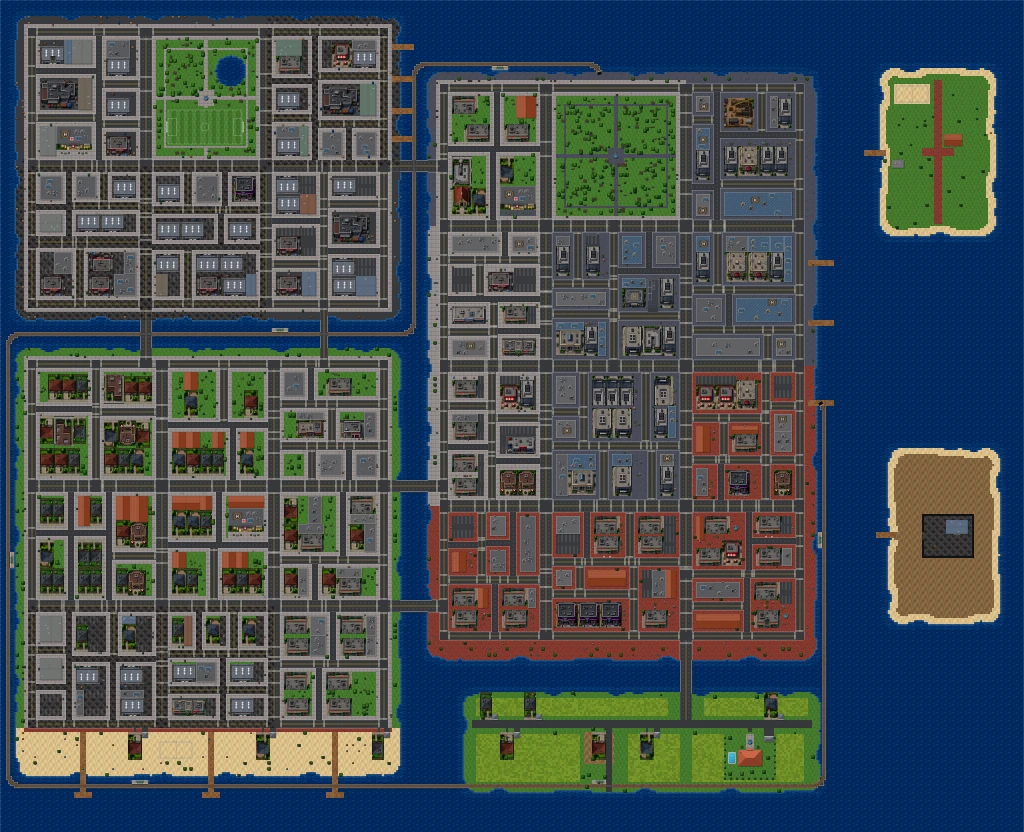
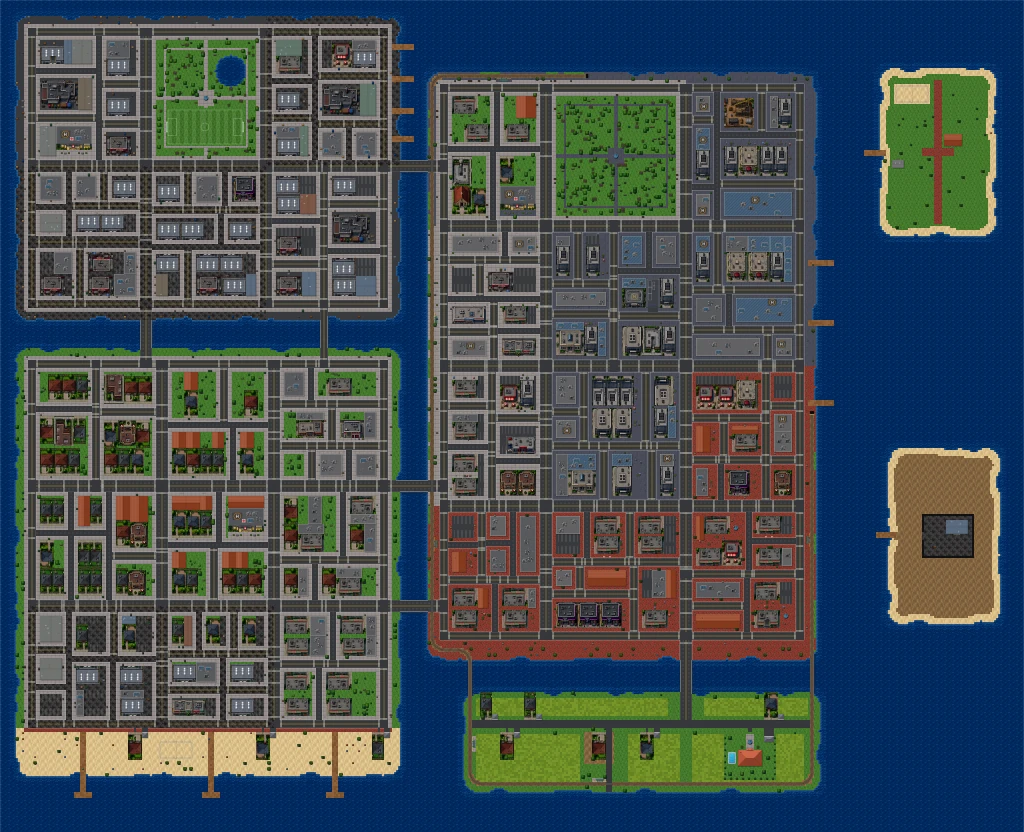
Railway on dry land: waterfront embankments and short bridges
The line used to run on a trestle down the middle of the waterways. It now
follows Downtown's waterfronts on a ballast embankment, goes under Downtown
in the subway, and crosses to Refuge Island on two short girder bridges.
Long water runs become bridges (capped by RAIL_MAX_BRIDGE_TILES), ragged
shore edges are filled in, props on the bed are cleared, and platforms go
on the side with room.

Stations, crossings, tutorial (v11), tests and the world map are updated.

Claude-Session: https://claude.ai/code/session_015TdwbASoLBxZr1VoEZGToX

diff --git a/shared/map.js b/shared/map.js
@@ -1040,10 +1040,11 @@ function volleyCourt(m, name, x, y, w, h) {
 }
 
 // ---- the railway ------------------------------------------------------------------------------
-// One big loop around the city: on a trestle over the water off the west coast and through the
-// channels (level crossings on the road bridges), under Downtown in a subway tunnel, and across
-// the open fields of Refuge Island (the long rural stretch). Trains follow `rail.pts` by arc
-// length; stations, crossings and the tunnel are positions along it.
+// One big loop on dry land: along Downtown's waterfronts on a ballast embankment (level
+// crossings where the road bridges come ashore), under Downtown in a subway tunnel, across the
+// channel to Refuge Island on two short bridges, and over its open fields (the long rural
+// stretch). Water is only ever crossed on a short bridge. Trains follow `rail.pts` by arc length;
+// stations, crossings and the tunnel are positions along it.
 export const RAIL_GAUGE = 52;         // px between the outer rails' ties (track bed width ~2 tiles)
 // Rolling stock (wire index = position here). Coaches: seat rows either side of the aisle, doors
 // in the middle; the mail car carries the strongbox at its back end.
@@ -1058,11 +1059,12 @@ export const MAIL_BOX = { ox: -58, oy: 0 };              // the strongbox (towar
 export const MAIL_POSTS = [[40, -18], [40, 18]];          // where the guards stand
 export const CROSSING_ARM = 66;                          // gate arms this far either side of the track centre
 const RAIL_ROUTE = [ // [tx, ty, flag] corners (track centre between tile tx-1 and tx); flag 'sub' = may run underground
-  [4, 393], [4, 167], [207, 167], [207, 32], [300, 32, 'sub'], [300, 200, 'sub'], [412, 200, 'sub'], [412, 393],
+  [216, 38], [300, 38, 'sub'], [300, 200, 'sub'], [406, 200, 'sub'], [406, 392], [235, 392], [235, 325], [216, 325],
 ];
 const RAIL_STATIONS = [ // [name, tx, ty] nearest point on the line becomes the stop
-  ['Westside', 4, 280], ['Channel Street', 140, 167], ['Northshore', 250, 32], ['Midtown Underground', 300, 120], ['Eastport', 412, 270], ['Refuge Halt', 300, 393], ['Sunset Pier', 70, 393],
+  ['Northshore', 252, 38], ['Midtown Underground', 300, 120], ['Eastport', 406, 270], ['Refuge Halt', 300, 392], ['Refuge West', 235, 372], ['Southbank', 216, 272], ['Harbor Street', 216, 160],
 ];
+export const RAIL_MAX_BRIDGE_TILES = 22; // the longest stretch of open water the line may cross (on a bridge)
 function buildRailway(m) {
   // a farm lane from Refuge Island's main road down to the halt (its level crossing is the rural one)
   for (let lx = 296; lx <= 312; lx++) {
@@ -1095,11 +1097,22 @@ function buildRailway(m) {
   // which points are underground: on a 'sub' stretch and under land
   const wet = (x, y) => { const t = m.tileAtPx(x, y); return t === T.WATER || t === T.DEEP; };
   for (const p of pts) p.under = !!p.sub && !wet(p.x, p.y) && m.tileAtPx(p.x, p.y) !== T.BRIDGE;
-  // lay the track bed: a trestle (bridge deck) over water, ballast (dirt) on land; road crossings stay road
+  // Where the line meets open water: a long run of water under the centre line is a channel
+  // crossing (a bridge deck); anything else - the ragged edge of a waterfront - is filled in as a
+  // ballast embankment, so the track always runs on land beside the water, never out in it.
+  const wetT = (t) => t === T.WATER || t === T.DEEP;
+  let run = [];
+  const closeRun = () => { const len = run.length ? run[run.length - 1].s - run[0].s : 0; for (const q of run) q.bridge = len > 5 * TILE; run = []; };
+  for (const p of pts) { if (!p.under && wetT(m.tileAtPx(p.x, p.y))) run.push(p); else closeRun(); }
+  closeRun();
+  // a bridge deck reaches a little past the water's edge at both ends
+  for (let i = 0; i < pts.length; i++) if (pts[i].bridge) for (let k = -6; k <= 6; k++) { const q = pts[(i + k + pts.length) % pts.length]; if (!q.under) q.deck = true; }
+  // lay the track bed: ballast (dirt) on land and embankment, a deck on the bridges; road crossings stay road
   const crossings = [];
+  const OFFS = [[-24, -24], [24, -24], [-24, 24], [24, 24], [0, 0], [-24, 0], [24, 0], [0, -24], [0, 24]];
   for (const p of pts) {
     if (p.under) continue;
-    for (const [dx, dy] of [[-24, -24], [24, -24], [-24, 24], [24, 24], [0, 0]]) {
+    for (const [dx, dy] of OFFS) {
       const tx = Math.floor((p.x + dx) / TILE), ty = Math.floor((p.y + dy) / TILE);
       const t = m.tileAt(tx, ty);
       if (t === T.ROAD || (t === T.BRIDGE && m.roadAxis[ty * MAP_W + tx])) {
@@ -1108,10 +1121,14 @@ function buildRailway(m) {
         else { last.s1 = p.s; }
         continue;
       }
-      if (t === T.WATER || t === T.DEEP) m.set(tx, ty, T.BRIDGE);
+      if (wetT(t)) m.set(tx, ty, p.deck ? T.BRIDGE : T.DIRT);
       else if (t !== T.BRIDGE && t !== T.DOCK && t !== T.BUILDING && t !== T.WALL) m.set(tx, ty, T.DIRT);
     }
+    // the embankment gets a shoulder a tile wider each side, so it reads as solid ground
+    if (!p.deck) for (const [dx, dy] of [[-40, 0], [40, 0], [0, -40], [0, 40]]) { const tx = Math.floor((p.x + dx) / TILE), ty = Math.floor((p.y + dy) / TILE); if (wetT(m.tileAt(tx, ty))) m.set(tx, ty, T.GRASS); }
   }
+  // nothing planted on the line: lamps, trees, benches and the like in the way are cleared
+  clearPropsOnRail(m, pts);
   for (const c of crossings) {
     const mid = (c.s0 + c.s1) / 2; const q = railAt({ pts, len: total }, mid); c.s = mid; c.x = q.x; c.y = q.y; c.a = q.a;
     // how wide the road is where it crosses (measured along the track)
@@ -1119,6 +1136,11 @@ function buildRailway(m) {
     let hw = 16;
     for (const sg of [-1, 1]) { let d = 0; while (d < 200 && onRoad(q.x + Math.cos(q.a) * sg * (d + 8), q.y + Math.sin(q.a) * sg * (d + 8))) d += 8; hw = Math.max(hw, d + 4); }
     c.hw = hw;
+  }
+  // the line only clipping the dead end of a lane isn't a crossing: that bit of road becomes ballast
+  for (const c of crossings.filter((q) => q.hw < 28)) {
+    for (const p of pts) if (p.s > c.s0 - 48 && p.s < c.s1 + 48) for (const [dx, dy] of OFFS) { const tx = Math.floor((p.x + dx) / TILE), ty = Math.floor((p.y + dy) / TILE); if (m.tileAt(tx, ty) === T.ROAD) { m.set(tx, ty, T.DIRT); m.roadAxis[ty * MAP_W + tx] = 0; } }
+    crossings.splice(crossings.indexOf(c), 1);
   }
   // stations: platform beside the track, joined to the nearest land (a short pier / paved apron)
   const stations = [];
@@ -1129,7 +1151,10 @@ function buildRailway(m) {
     // platform on the side with land nearer
     const nx = -Math.sin(q.a), ny = Math.cos(q.a);
     const landDist = (sx) => { for (let d = 40; d < 900; d += 16) { const t = m.tileAtPx(q.x + nx * sx * d, q.y + ny * sx * d); if (t !== T.WATER && t !== T.DEEP && t !== T.BRIDGE) return d; } return 9999; };
-    const side = best.under ? 1 : landDist(1) <= landDist(-1) ? 1 : -1;
+    // the platform goes on whichever side has room (no road or buildings in its footprint);
+    // on a waterfront that's often a pier out over the water
+    const bad = (sd) => { let n = 0; for (let along = -112; along <= 112; along += 16) for (let off = 40; off <= 88; off += 16) { const t = m.tileAtPx(q.x + Math.cos(q.a) * along + nx * sd * off, q.y + Math.sin(q.a) * along + ny * sd * off); if (t === T.ROAD || t === T.BUILDING || t === T.WALL || t === T.BRIDGE) n++; } return n; };
+    const side = best.under ? 1 : bad(1) !== bad(-1) ? (bad(1) < bad(-1) ? 1 : -1) : landDist(1) <= landDist(-1) ? 1 : -1;
     const st = { name: `${name} Station`, s: best.s, x: q.x, y: q.y, a: q.a, side, under: !!best.under };
     if (!best.under) {
       // platform: 7 tiles along the track, 2 deep, then a walkway to land
@@ -1140,7 +1165,7 @@ function buildRailway(m) {
         if (t === T.WATER || t === T.DEEP) m.set(Math.floor(x / TILE), Math.floor(y / TILE), T.DOCK);
         else if (t !== T.BUILDING && t !== T.WALL && t !== T.ROAD && t !== T.BRIDGE) m.set(Math.floor(x / TILE), Math.floor(y / TILE), T.PLAZA);
       }
-      const far = Math.min(900, landDist(side));
+      const far = landDist(side) < 400 ? landDist(side) : 0; // a pier platform is reached across the tracks
       for (let d = 88; d <= far + 16; d += 16) for (const w of [-16, 0, 16]) {
         const x = q.x + nx * side * d + ax * w, y = q.y + ny * side * d + ay * w;
         const t = m.tileAtPx(x, y);
@@ -1166,6 +1191,25 @@ function buildRailway(m) {
   const east = stations.find((q) => q.name.startsWith('Eastport')), halt = stations.find((q) => q.name.startsWith('Refuge'));
   const ruralPts = pts.filter((p) => p.s > east.s && p.s < halt.s && m.dist[Math.floor(p.y / TILE) * MAP_W + Math.floor(p.x / TILE)] === 9);
   m.rail = { pts, len: total, stations, crossings, rural: ruralPts.length ? { s0: ruralPts[0].s + 200, s1: ruralPts[ruralPts.length - 1].s - 100 } : null };
+}
+
+// Clear street furniture standing on the track bed (and re-index what's left: props are
+// referenced by index on the wire, and both ends build the map the same way).
+function clearPropsOnRail(m, pts) {
+  const grid = new Set();
+  for (const p of pts) if (!p.under) for (let dy = -1; dy <= 1; dy++) for (let dx = -1; dx <= 1; dx++) grid.add((Math.floor(p.y / TILE) + dy) * MAP_W + Math.floor(p.x / TILE) + dx);
+  const near = (x, y) => { if (!grid.has(Math.floor(y / TILE) * MAP_W + Math.floor(x / TILE))) return false; for (const p of pts) if (!p.under && Math.abs(p.x - x) < 46 && Math.abs(p.y - y) < 46 && Math.hypot(p.x - x, p.y - y) < 46) return true; return false; };
+  const keep = [], remap = new Map(), gone = new Set();
+  m.props.forEach((pr, i) => { if (near(pr.x, pr.y)) { gone.add(pr); return; } remap.set(i, keep.length); keep.push(pr); });
+  if (!gone.size) return;
+  m.props = keep;
+  m.lamps = m.lamps.filter((l) => !gone.has(l));
+  m.propSolid = new Map();
+  for (const [k, arr] of m.solidProps) {
+    const kept = arr.filter((e) => e.pi < 0 ? !near(e.x, e.y) : remap.has(e.pi));
+    for (const e of kept) if (e.pi >= 0) { e.pi = remap.get(e.pi); m.propSolid.set(e.pi, e); }
+    if (kept.length) m.solidProps.set(k, kept); else m.solidProps.delete(k);
+  }
 }
 
 // Position + heading at arc length s along the loop (wraps).

diff --git a/shared/tutorial.js b/shared/tutorial.js
@@ -28,7 +28,7 @@ import {
 } from './rules.js';
 
 // Bump when the tour changes enough that returning players should be offered it again.
-export const TUTORIAL_VERSION = 10;
+export const TUTORIAL_VERSION = 11;
 
 const price = (shop, id) => (SHOPS[shop].buy.find((o) => o.id === id) || {}).price;
 const min = (ms) => Math.round(ms / 60000);
@@ -69,7 +69,7 @@ export const STEPS = [
     text: `The Syndicate's island fortress. Guards shoot outsiders on sight, and the compound gate only opens for gang members - home of the {{smuggler}}.` },
 
   { ch: 'city', title: 'The railway', at: { pois: 'station' },
-    text: `Two trains run one big loop round the city at up to ${kmh(TRAIN_SPEED)} km/h - over the trestle off the west coast, through the channels, under Downtown in the subway and across the fields of ${isle('F')} - stopping ${TRAIN_DWELL_S} seconds at every {{station}} (check the timetable on the platform). Stand by a door while a train is in and press [[action]] to board; at Midtown Underground take the stairs down. Walk through the cars, sit back and watch the city go by, then [[vehicle]] gets you off at a station - or jump off a moving train and tumble. In the tunnel the doors stay shut. Running alongside a slow train, or driving level with it, you can hop on too.` },
+    text: `Two trains run one big loop at up to ${kmh(TRAIN_SPEED)} km/h - along ${isle('D')}'s waterfronts, under its streets in the subway and over two short bridges to the fields of ${isle('F')} - stopping ${TRAIN_DWELL_S} seconds at every {{station}} (check the timetable on the platform). Stand by a door while a train is in and press [[action]] to board; at Midtown Underground take the stairs down. Walk through the cars, sit back and watch the city go by, then [[vehicle]] gets you off at a station - or jump off a moving train and tumble. In the tunnel the doors stay shut. Running alongside a slow train, or driving level with it, you can hop on too.` },
   { ch: 'city', title: 'Level crossings', at: { crossings: 1 },
     text: `Where the line crosses a road the gates drop when a train is within ${Math.round(CROSSING_WARN_PX / TILE)} m. Most drivers wait; some gamble, and cops on a chase often try to beat the train. You can smash straight through the arms. Nothing stops a train and nothing hurts it: anyone on the tracks gets thrown, and a car caught on the front of the engine is dragged along - steer it off within ${TRAIN_DRAG_EXPLODE_S} seconds or it blows up.` },
   // ---- basics --------------------------------------------------------------------------------

diff --git a/test/trains.test.js b/test/trains.test.js
@@ -4,7 +4,7 @@ import { test } from 'node:test';
 import assert from 'node:assert/strict';
 import { makeWorld, joinPlayer, run, teleport } from './helpers.js';
 import { K, T } from '../shared/constants.js';
-import { railAt, CROSSING_ARM, MAIL_BOX } from '../shared/map.js';
+import { railAt, CROSSING_ARM, MAIL_BOX, RAIL_MAX_BRIDGE_TILES } from '../shared/map.js';
 import { TRAIN_SPEED, TRAIN_DWELL_S, TRAIN_DRAG_EXPLODE_S, TRAIN_JOB_PAY, STRONGBOX_CRACK_S } from '../shared/rules.js';
 import { CTRL } from '../shared/protocol.js';
 import * as trains from '../server/systems/trains.js';
@@ -31,6 +31,16 @@ test('railway: one loop, seven stations (one underground), level crossings and a
   for (const c of r.crossings) assert.ok([T.ROAD, T.BRIDGE].includes(w.map.tileAtPx(c.x, c.y)), 'crossings are on roads');
   assert.ok(r.rural && r.rural.s1 - r.rural.s0 > 2500, 'long rural stretch');
   for (const p of r.pts) if (!p.under) assert.notEqual(w.map.tileAtPx(p.x, p.y), T.BUILDING, 'no track through buildings');
+  // the line runs on land: open water is only ever crossed on a short bridge
+  let run = 0, longest = 0, total = 0;
+  for (const p of r.pts) {
+    const tx = Math.floor(p.x / 32), ty = Math.floor(p.y / 32), t = w.map.tileAt(tx, ty);
+    const deck = t === T.BRIDGE && !w.map.roadAxis[ty * 512 + tx];
+    if (deck) { run += 8; total += 8; longest = Math.max(longest, run); } else run = 0;
+    assert.ok(![T.WATER, T.DEEP].includes(t), 'never laid in the water');
+  }
+  assert.ok(longest <= RAIL_MAX_BRIDGE_TILES * 32, `longest bridge ${Math.round(longest / 32)} tiles`);
+  assert.ok(total < r.len * 0.06, `${Math.round(total / r.len * 100)}% of the line is bridge`);
   for (const s of r.stations) assert.ok(w.map.pois[s.poi].kind === 'station');
   assert.equal(w.trains.length, 2);
   assert.ok(w.trains.some((t) => t.mail >= 0), 'a mail train');
@@ -55,7 +65,7 @@ test('nothing stops a train: a car on the line is dragged along and blows up; a 
   const w = makeWorld();
   const t = w.trains[0];
   const rail = w.map.rail;
-  const s = rail.rural.s0 + 600;
+  const s = rail.rural.s0 + 1800; // on the long straight across the fields
   runUpTo(w, t, s, 400);
   const q = railAt(rail, s);
   const { p } = joinPlayer(w); // someone watching (or the car is tidied away)

diff --git a/client/render/trains.js b/client/render/trains.js
@@ -54,6 +54,20 @@ export function drawRailChunk(g, m, idx) {
       g.restore();
     }
   }
+  // bridge spans: steel girders along both edges of the deck, with a shadow on the water
+  for (const [off, w, col] of [[34, 6, 'rgba(0,0,0,.28)'], [30, 4, '#3a3f48'], [30, 1.5, '#8a909a']]) {
+    g.strokeStyle = col; g.lineWidth = w; g.lineCap = 'butt';
+    for (const side of [-1, 1]) {
+      g.beginPath();
+      for (const i of idx) {
+        const { p, q, a } = seg(i);
+        if (p.under || q.under || !wetAt(m, p.x, p.y) || !wetAt(m, q.x, q.y) || roadAt(m, p.x, p.y)) continue;
+        const nx = -Math.sin(a) * side * off, ny = Math.cos(a) * side * off;
+        g.moveTo(p.x + nx + (off === 34 ? 4 : 0), p.y + ny + (off === 34 ? 5 : 0)); g.lineTo(q.x + nx + (off === 34 ? 4 : 0), q.y + ny + (off === 34 ? 5 : 0));
+      }
+      g.stroke();
+    }
+  }
   // the two rails
   for (const [w, col] of [[4, '#2a2622'], [2, '#b8bcc4']]) {
     g.strokeStyle = col; g.lineWidth = w; g.lineCap = 'butt';

diff --git a/server/systems/trains.js b/server/systems/trains.js
@@ -781,7 +781,7 @@ export function stationBoard(world, poi) {
     const eta = etaTo(world, t, si);
     return `${t.mail >= 0 ? 'Mail train' : 'Commuter'}: ${eta < 1 ? 'AT THE PLATFORM - board now' : `${Math.round(eta)}s`}`;
   });
-  return { title: sts[si].name, sub: `${sts[si].under ? 'Subway - take the stairs down when a train is in. ' : ''}Trains run the whole loop: Westside, Channel Street, Northshore, Midtown Underground, Eastport, Refuge Halt, Sunset Pier. ${lines.join(' · ')}` };
+  return { title: sts[si].name, sub: `${sts[si].under ? 'Subway - take the stairs down when a train is in. ' : ''}Trains run the whole loop: ${sts.map((q) => q.name.replace(/ Station$/, '')).join(', ')}. ${lines.join(' · ')}` };
 }
 
 export function meInfo(world, p) {

diff --git a/docs/DEVLOG.md b/docs/DEVLOG.md
@@ -665,3 +665,19 @@ Measured with 4x CPU throttling (phone-like frame times). Before: driving speed 
   - HUD train bar shows the next stop, ETA, the subway and strongbox progress. New sounds: horn, crossing bell, rumble.
   - Dev command `train` boards the nearest train.
 - Tutorial v10 ("The railway", "Level crossings", "The mail train"). New `test/trains.test.js` (9 tests). World map rebuilt. The idle-pedestrian test now places its NPC on open pavement (it was flaky).
+
+## Railway moved onto dry land
+- **The line no longer runs out in the water.** It now:
+  - follows Downtown's waterfronts on a ballast embankment, with a grass shoulder on the water side;
+  - dives under Downtown in the subway;
+  - crosses the channel to Refuge Island on two short bridges (17 and 20 tiles) with steel girders;
+  - takes the long rural straight along Refuge Island's south fields.
+  - It no longer goes round Industrial and Residential.
+- **Bed laying (`buildRailway`):** a long run of water under the centre line becomes a bridge deck (`RAIL_MAX_BRIDGE_TILES` caps it). Short ragged waterfront edges are filled in as embankment.
+  - Lamps, trees and benches on the bed are removed (props are re-indexed).
+  - A place where the line only clips the dead end of a lane becomes ballast instead of a crossing.
+- **Level crossings** are now where the three road bridges come ashore on Downtown's west side, plus the Refuge Halt farm lane.
+- **Stations:** Northshore, Midtown Underground, Eastport, Refuge Halt, Refuge West, Southbank and Harbor Street.
+  - Each platform picks the side with room, so on a waterfront it can be a pier.
+  - The timetable lists the stations from the map.
+- Tutorial v11 (railway text). The railway test now checks that no track is laid in water, the longest bridge, and the bridge share of the line. The drag test moved to the rural straight. World map rebuilt.
